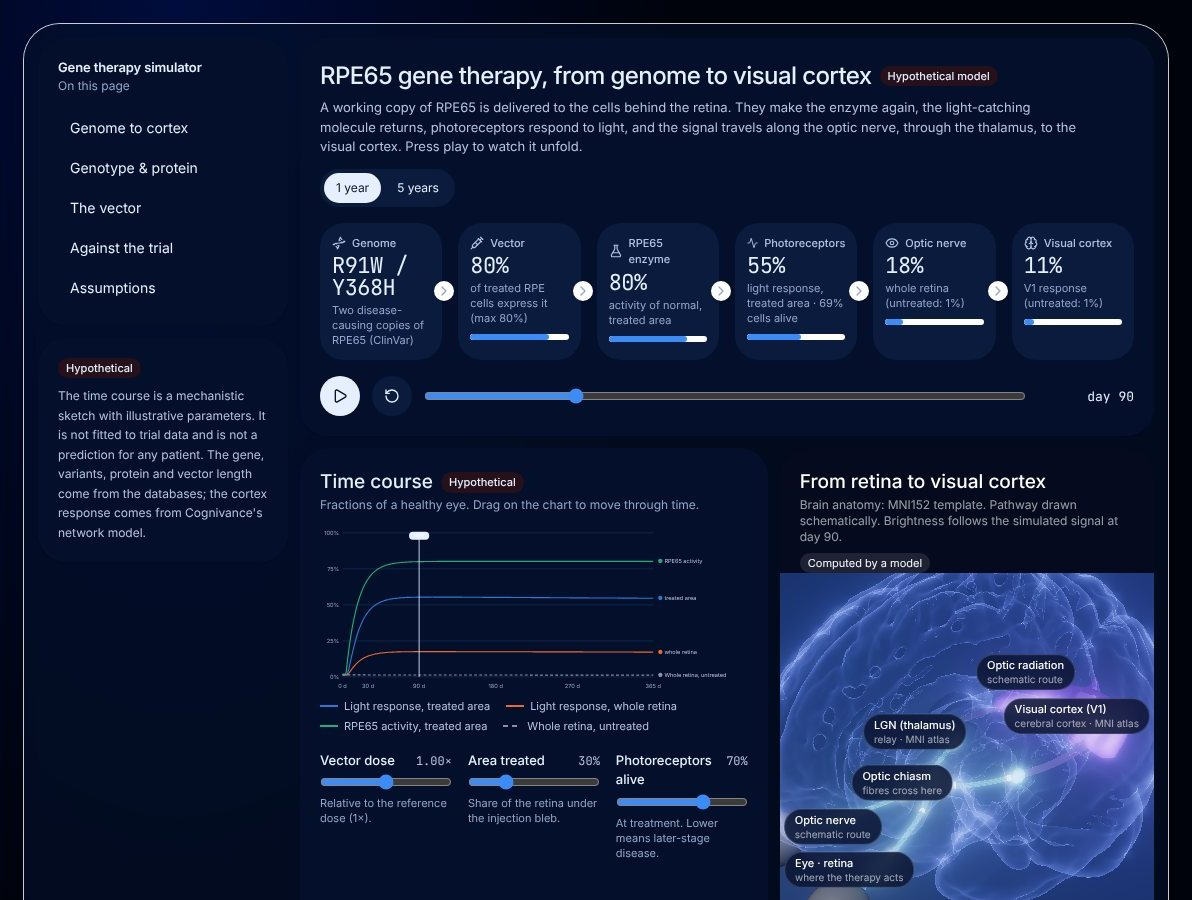
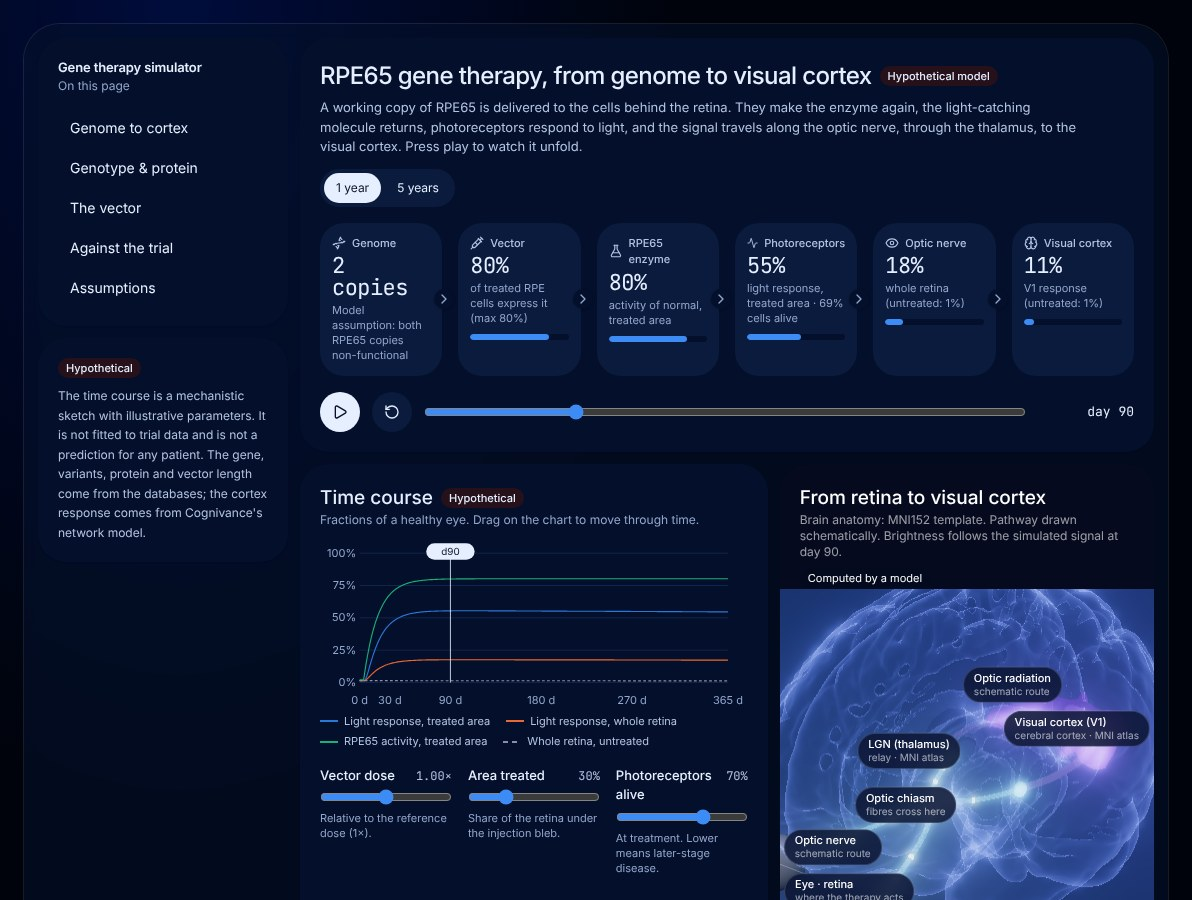
feat(vision): ClinVar withheld on every screen, export and landing tile
The source policy refuses every action on ClinVar, so no screen shows
ClinVar content any more:

- Gene evidence: the variants stage shows a plain notice that variant
  records are withheld, with the policy's reason in its own words; the
  pipeline marks the step "Withheld"; the data card no longer names ClinVar
  as a captured source; the intervention hypothesis states recessive
  inheritance as its own assumption instead of citing ClinVar.
- Gene therapy simulator: the genome step shows the model's assumption
  (both RPE65 copies non-functional) instead of named ClinVar alleles, and
  the genotype card shows the same notice. The model never used the
  genotype, so its output is unchanged.
- The evidence export is built in lib/vision/export.ts: it carries the
  not-for-clinical-use statement and the policy's withheld list, and has no
  variant field. A test checks it holds no ClinVar content.
- Landing: the ingest step and the gene-evidence blurb no longer list
  ClinVar; the therapy and gene-evidence tiles are re-captured without
  ClinVar-derived content.

Claude-Session: https://claude.ai/code/session_01R9V7pzaFj8dFKLCLBzfqvg

diff --git a/src/components/vision/VisionModule.tsx b/src/components/vision/VisionModule.tsx
@@ -49,6 +49,7 @@ import {
 } from "@/lib/vision/sources";
 import { useEvidence, useStructure } from "./useEvidence";
 import { GenomeTrack, GroupFilter, ProteinTrack, VariantCard, countGroups } from "./genome";
+import { buildEvidenceExport } from "@/lib/vision/export";
 import { compareToReference, REFERENCE } from "@/lib/vision/reference";
 import { simulateTherapy } from "@/lib/vision/therapy";
 import type { Variant, VariantGroup } from "@/lib/vision/snapshot";
@@ -61,7 +62,7 @@ import {
   type Target,
 } from "@/lib/vision/targets";
 import { MolViewer, type HoverInfo, type MolColour, type MolStyle } from "./MolViewer";
-import { Card, EvidenceTag, Gap, Spinner, VerdictChip } from "./ui";
+import { Card, EvidenceTag, Gap, Spinner, VerdictChip, Withheld } from "./ui";
 import { PlddtChart } from "./PlddtChart";
 
 type Ready = Extract<Target, { status: "ready" }>;
@@ -186,12 +187,8 @@ export function VisionModule() {
   );
 
   const exportRecord = () => {
-    const out = {
-      module: "cognivance-vision-evidence",
-      schema: 1,
+    const out = buildEvidenceExport({
       exportedAt: new Date().toISOString(),
-      notice:
-        "Research software. Not a medical device; not clinically validated. Values are as each source reported them at retrieval.",
       target: { gene: target.geneSymbol, taxonId: target.taxonId, condition: target.condition },
       record,
       structure: source && {
@@ -202,7 +199,7 @@ export function VisionModule() {
       },
       crossChecks: checks,
       decisions: DECISIONS,
-    };
+    });
     const blob = new Blob([JSON.stringify(out, null, 2)], { type: "application/json" });
     const a = document.createElement("a");
     a.href = URL.createObjectURL(blob);
@@ -303,8 +300,8 @@ export function VisionModule() {
               </div>
               <p className="mt-1.5 text-[11px] text-[var(--v-ink-3)]">
                 {ev.mode === "snapshot" && ev.manifest
-                  ? `Raw responses captured ${new Date(ev.manifest.capturedAt).toLocaleDateString(undefined, { dateStyle: "medium" })} from Ensembl, UniProt, AlphaFold DB and ClinVar. Works offline; every value keeps its source.`
-                  : "Requested now from Ensembl, UniProt and AlphaFold DB. Variants still come from the snapshot."}
+                  ? `Captured ${new Date(ev.manifest.capturedAt).toLocaleDateString(undefined, { dateStyle: "medium" })} from Ensembl, UniProt and AlphaFold DB; shown from a display copy that keeps each value's source. Works offline. Variant records are withheld.`
+                  : "Requested now from Ensembl, UniProt and AlphaFold DB. Variant records are withheld."}
               </p>
               {ev.fallback && (
                 <p className="mt-1 text-[11px] text-[color:var(--kv-b57d12)]">{ev.fallback}</p>
@@ -335,7 +332,9 @@ export function VisionModule() {
                           ? "Loaded"
                           : src?.state === "conflict"
                             ? "Conflict"
-                            : "Gap";
+                            : src?.state === "withheld"
+                              ? "Withheld"
+                              : "Gap";
                   const Icon =
                     s.key === "gene"
                       ? Dna
@@ -897,17 +896,21 @@ export function VisionModule() {
             <div>
               <div className="flex items-center gap-2">
                 <h2 className="text-[19px] font-medium">Genomic variants</h2>
-                <EvidenceTag kind="reference" label="ClinVar" />
+                {ev.variants?.state === "value" && <EvidenceTag kind="reference" label="ClinVar" />}
               </div>
-              {variantSet ? (
+              {ev.variants?.state === "withheld" ? (
+                <p className="text-xs text-[var(--v-ink-3)]">
+                  Variant records come from ClinVar, which this app may not show yet.
+                </p>
+              ) : variantSet ? (
                 <p className="text-xs text-[var(--v-ink-3)]">
                   {variantSet.variants.length.toLocaleString()} variants recorded for RPE65 alone ·{" "}
                   {countGroups(variantSet.variants).pathogenic} pathogenic or likely pathogenic ·{" "}
                   {variantSet.multiGene} larger events spanning other genes too are counted, not
                   mapped.
                 </p>
-              ) : (
-                <p className="text-xs text-[var(--v-ink-3)]">Loading ClinVar…</p>
+              ) : ev.variants?.state === "missing" ? null : (
+                <p className="text-xs text-[var(--v-ink-3)]">Loading…</p>
               )}
               {ev.variants?.state === "value" && (
                 <div className="mt-0.5">
@@ -925,6 +928,11 @@ export function VisionModule() {
           {ev.variants?.state === "missing" && (
             <div className="mt-3">
               <Gap>{ev.variants.reason}</Gap>
+            </div>
+          )}
+          {ev.variants?.state === "withheld" && (
+            <div className="mt-3">
+              <Withheld what="Variant records" reason={ev.variants.reason} />
             </div>
           )}
           {variantSet && gene && protein && (
@@ -1048,9 +1056,9 @@ export function VisionModule() {
             <ul className="mt-2 flex list-disc flex-col gap-1.5 pl-4 text-[13px] text-[var(--v-ink-2)]">
               <li>
                 <span className="font-medium text-[var(--v-ink)]">Why it could work: </span>
-                ClinVar lists the condition as recessive (
-                {selectedVariant?.conditions[0] ?? "RPE65-related retinopathy"}), so disease needs
-                both copies faulty; one working copy should restore the reset step.
+                the hypothesis assumes the condition is recessive, so disease needs both copies
+                faulty and one working copy could restore the reset step. That is an assumption of
+                this hypothesis, not a finding of this software.
               </li>
               <li>
                 <span className="font-medium text-[var(--v-ink)]">What limits it: </span>

diff --git a/src/components/vision/TherapySimulator.tsx b/src/components/vision/TherapySimulator.tsx
@@ -28,7 +28,7 @@ import { GenomeTrack, ProteinTrack, VariantCard } from "./genome";
 import { MolViewer, type HoverInfo } from "./MolViewer";
 import { TherapyChart, VectorMap } from "./TherapyChart";
 import { useEvidence, useStructure } from "./useEvidence";
-import { Card, EvidenceTag, Gap, Spinner, VerdictChip } from "./ui";
+import { Card, EvidenceTag, Gap, Spinner, VerdictChip, Withheld } from "./ui";
 
 const HORIZONS = [
   { days: 365, label: "1 year" },
@@ -338,9 +338,13 @@ export function TherapySimulator() {
                   value={
                     alleles.length === 2
                       ? `${alleles[0]!.protein!.short} / ${alleles[1]!.protein!.short}`
-                      : "—"
+                      : "2 copies"
                   }
-                  sub="Two disease-causing copies of RPE65 (ClinVar)"
+                  sub={
+                    alleles.length === 2
+                      ? "Two disease-causing copies of RPE65 (ClinVar)"
+                      : "Model assumption: both RPE65 copies non-functional"
+                  }
                   level={null}
                 />
                 <Stage
@@ -512,15 +516,32 @@ export function TherapySimulator() {
             <Card id="genotype">
               <div className="flex flex-wrap items-center gap-2">
                 <h2 className="text-[19px] font-medium">Genotype and the protein it breaks</h2>
-                <EvidenceTag kind="reference" label="ClinVar · Ensembl" />
+                {ev.variants?.state === "value" ? (
+                  <EvidenceTag kind="reference" label="ClinVar · Ensembl" />
+                ) : (
+                  <EvidenceTag kind="hypothetical" label="Model assumption" />
+                )}
                 <EvidenceTag kind="computed" label="AlphaFold model" />
               </div>
-              <p className="text-xs text-[var(--v-ink-3)]">
-                RPE65 disease is recessive: both copies carry a disease-causing change. Choose any
-                two of the {missense.length.toLocaleString()} pathogenic single-letter changes
-                ClinVar records. The model above treats every genotype the same, with the residual
-                activity in the assumptions table.
-              </p>
+              {ev.variants?.state === "value" ? (
+                <p className="text-xs text-[var(--v-ink-3)]">
+                  RPE65 disease is recessive: both copies carry a disease-causing change. Choose any
+                  two of the {missense.length.toLocaleString()} pathogenic single-letter changes
+                  ClinVar records. The model above treats every genotype the same, with the residual
+                  activity in the assumptions table.
+                </p>
+              ) : (
+                <p className="text-xs text-[var(--v-ink-3)]">
+                  The model above assumes both copies of RPE65 are non-functional and treats every
+                  genotype the same, with the residual activity in the assumptions table. It does
+                  not use or show specific variants.
+                </p>
+              )}
+              {ev.variants?.state === "withheld" && (
+                <div className="mt-3">
+                  <Withheld what="Variant records" reason={ev.variants.reason} />
+                </div>
+              )}
               {ev.status === "loading" && (
                 <div className="mt-3">
                   <Spinner label="Reading the evidence snapshot…" />

diff --git a/src/lib/vision/export.test.ts b/src/lib/vision/export.test.ts
@@ -1,0 +1,43 @@
+/**
+ * What the Vision evidence export can contain. Built from the real display
+ * copy (no network): the not-for-clinical-use statement, the policy's withheld
+ * list, and no content from a withheld source.
+ */
+import { readFileSync } from "node:fs";
+import { join } from "node:path";
+import { describe, expect, it } from "vitest";
+import { buildEvidenceExport } from "./export";
+import { loadSnapshot } from "./snapshot";
+import type { Fetcher } from "./sources";
+
+const PUBLIC = join(__dirname, "../../../public");
+const disk: Fetcher = async (url) => {
+  try {
+    return new Response(readFileSync(join(PUBLIC, url)));
+  } catch {
+    return new Response(null, { status: 404 });
+  }
+};
+
+describe("evidence export", () => {
+  it("carries the statement, the withheld list, and nothing from ClinVar", async () => {
+    const snap = await loadSnapshot(disk);
+    const out = buildEvidenceExport({
+      exportedAt: "2026-10-29T00:00:00.000Z",
+      target: { gene: "RPE65", taxonId: 9606, condition: "c" },
+      record: { gene: snap.gene, protein: snap.protein, model: snap.model },
+      structure: null,
+      crossChecks: [],
+      decisions: [],
+    });
+    expect(out.notice).toMatch(/not for clinical decision-making/);
+    expect(out.sourcePolicy.withheld.map((w) => w.id)).toEqual(["clinvar-eutils"]);
+    expect(Object.keys(out)).not.toContain("variants");
+    // Outside the withheld list's own explanation, nothing names or carries ClinVar content.
+    const { sourcePolicy, ...rest } = out;
+    const text = JSON.stringify(rest);
+    expect(text).not.toMatch(/clinvar|VCV\d|eutils|esummary/i);
+    // The withheld list names the source (its name includes "esummary") and why; no record data.
+    expect(JSON.stringify(sourcePolicy)).not.toMatch(/VCV\d|"variants"|"uid"/);
+  });
+});

diff --git a/src/components/vision/ui.tsx b/src/components/vision/ui.tsx
@@ -1,5 +1,5 @@
 import type { ReactNode } from "react";
-import { CircleDashed, RefreshCw } from "lucide-react";
+import { CircleDashed, Lock, RefreshCw } from "lucide-react";
 import { EVIDENCE, type EvidenceKind } from "@/lib/vision/evidence";
 import type { Verdict } from "@/lib/vision/reference";
 
@@ -48,6 +48,30 @@ export function Gap({ children }: { children: ReactNode }) {
     <div className="flex gap-2 rounded-2xl border border-dashed border-[var(--v-line)] bg-[var(--v-soft)] px-3 py-2.5 text-[13px] text-[var(--v-ink-2)]">
       <CircleDashed className="mt-0.5 h-3.5 w-3.5 shrink-0" aria-hidden />
       <span>{children}</span>
+    </div>
+  );
+}
+
+/**
+ * Content refused by the source policy. Says what is withheld and why, in the
+ * policy's own words; it never shows any of the withheld content.
+ */
+export function Withheld({ what, reason }: { what: string; reason: string }) {
+  return (
+    <div
+      role="note"
+      aria-label={`${what} withheld`}
+      className="flex gap-2.5 rounded-2xl border border-[var(--v-line)] bg-[var(--v-soft)] px-3.5 py-3 text-[13px] text-[var(--v-ink-2)]"
+    >
+      <Lock className="mt-0.5 h-3.5 w-3.5 shrink-0 text-[var(--v-ink)]" aria-hidden />
+      <div>
+        <p className="font-medium text-[var(--v-ink)]">{what} withheld by the source policy</p>
+        <p className="mt-0.5">{reason}</p>
+        <p className="mt-1 text-[12px] text-[var(--v-ink-3)]">
+          Nothing from this source is loaded or shown until the condition is met and recorded in the
+          licence inventory.
+        </p>
+      </div>
     </div>
   );
 }

diff --git a/src/lib/vision/export.ts b/src/lib/vision/export.ts
@@ -1,0 +1,38 @@
+/**
+ * The Vision evidence export. Built here, not in the component, so a test can
+ * check what it can and cannot contain: the not-for-clinical-use statement,
+ * the source policy's withheld list, and no content from a withheld source.
+ * Variant records are deliberately not a field of the export.
+ */
+
+import { LICENCES } from "@/lib/genome/config";
+import { withheldSources } from "@/lib/genome/policy";
+import { NOT_FOR_CLINICAL_USE } from "@/lib/genome/status";
+import type { VisionRecord } from "./sources";
+
+export type EvidenceExportInput = {
+  exportedAt: string;
+  target: { gene: string; taxonId: number; condition: string };
+  record: VisionRecord | null;
+  structure: unknown;
+  crossChecks: unknown;
+  decisions: unknown;
+};
+
+export function buildEvidenceExport(i: EvidenceExportInput) {
+  return {
+    module: "cognivance-vision-evidence",
+    schema: 2,
+    exportedAt: i.exportedAt,
+    notice: `${NOT_FOR_CLINICAL_USE} Values are as each source reported them at retrieval.`,
+    target: i.target,
+    record: i.record,
+    structure: i.structure,
+    crossChecks: i.crossChecks,
+    decisions: i.decisions,
+    sourcePolicy: {
+      inventoryVersion: LICENCES.inventoryVersion,
+      withheld: withheldSources(),
+    },
+  };
+}

diff --git a/src/lib/vision/vision.test.ts b/src/lib/vision/vision.test.ts
@@ -4,6 +4,7 @@
  * identifiers (TEST…). None of it is, or stands in for, a captured response
  * from Ensembl, UniProt or AlphaFold DB.
  */
+import { allowed } from "@/lib/genome/policy";
 import { describe, expect, it } from "vitest";
 import { mapSourced, missing, sourced, valueOf, type Provenance } from "./evidence";
 import { parsePdbBackbone, plddtBand, summarisePlddt } from "./pdb";
@@ -60,8 +61,13 @@ describe("targets and decisions", () => {
     expect(ready[0]).toMatchObject({ geneSymbol: "RPE65", taxonId: 9606 });
   });
 
-  it("runs every pipeline stage, and labels the modelled one hypothetical", () => {
-    expect(PIPELINE.every((s) => s.status === "live")).toBe(true);
+  it("runs every pipeline stage the source policy permits, and labels the modelled one hypothetical", () => {
+    // The variant stage's source (ClinVar) may not be displayed, so that stage is withheld.
+    expect(allowed("clinvar-eutils", "display")).toBe(false);
+    expect(PIPELINE.find((s) => s.key === "variant")!.status).toBe("withheld");
+    expect(PIPELINE.filter((s) => s.key !== "variant").every((s) => s.status === "live")).toBe(
+      true,
+    );
     expect(PIPELINE.find((s) => s.key === "hypothesis")!.kind).toBe("hypothetical");
   });
 });

diff --git a/src/lib/vision/targets.ts b/src/lib/vision/targets.ts
@@ -101,7 +101,8 @@ export const DECISIONS: Decision[] = [
   { n: 14, question: "Desired clinical benchmark output", status: "open" },
 ];
 
-export type StageStatus = "live" | "not-built" | "needs-decision";
+/** "withheld": built, but its source is refused by the source policy (lib/genome/policy.ts). */
+export type StageStatus = "live" | "not-built" | "needs-decision" | "withheld";
 
 export type Stage = {
   key: string;
@@ -119,7 +120,7 @@ export const PIPELINE: Stage[] = [
     key: "variant",
     label: "Genomic variants",
     source: "ClinVar",
-    status: "live",
+    status: "withheld",
     kind: "reference",
   },
   { key: "protein", label: "Protein", source: "UniProt", status: "live", kind: "reference" },

diff --git a/src/routes/index.tsx b/src/routes/index.tsx
@@ -72,7 +72,7 @@ const AUDIENCE = [
 const STEPS = [
   {
     t: "Ingest",
-    d: "Genome, imaging and EEG enter through one acquisition contract. Public references (Ensembl, UniProt, AlphaFold DB, ClinVar) are captured with a SHA-256 manifest per gene.",
+    d: "Genome, imaging and EEG enter through one acquisition contract. Public references are captured with a SHA-256 manifest per gene, and a source policy decides what may be stored, shown or shared.",
   },
   {
     t: "Model",

diff --git a/src/lib/genome/status.ts b/src/lib/genome/status.ts
@@ -1,0 +1,9 @@
+/**
+ * The product-status statements shown on every Genome and Vision screen and
+ * written into every export. One source, so screens and exports cannot drift
+ * apart (checked by status.test.ts against the governance records).
+ */
+
+/** Plain language, shown wherever results appear. */
+export const NOT_FOR_CLINICAL_USE =
+  "Research software. Not a medical device, not clinically validated, and not for clinical decision-making.";

diff --git a/src/lib/company.ts b/src/lib/company.ts
@@ -79,7 +79,7 @@ export const MODULES: {
     group: "Genome & Vision",
     name: "Gene & protein evidence",
     blurb:
-      "RPE65 from gene to structure: Ensembl, UniProt, AlphaFold DB and ClinVar, every value traced to its source.",
+      "RPE65 from gene to structure: Ensembl, UniProt and AlphaFold DB, every value traced to its source.",
     status: "Live data",
   },
   {
